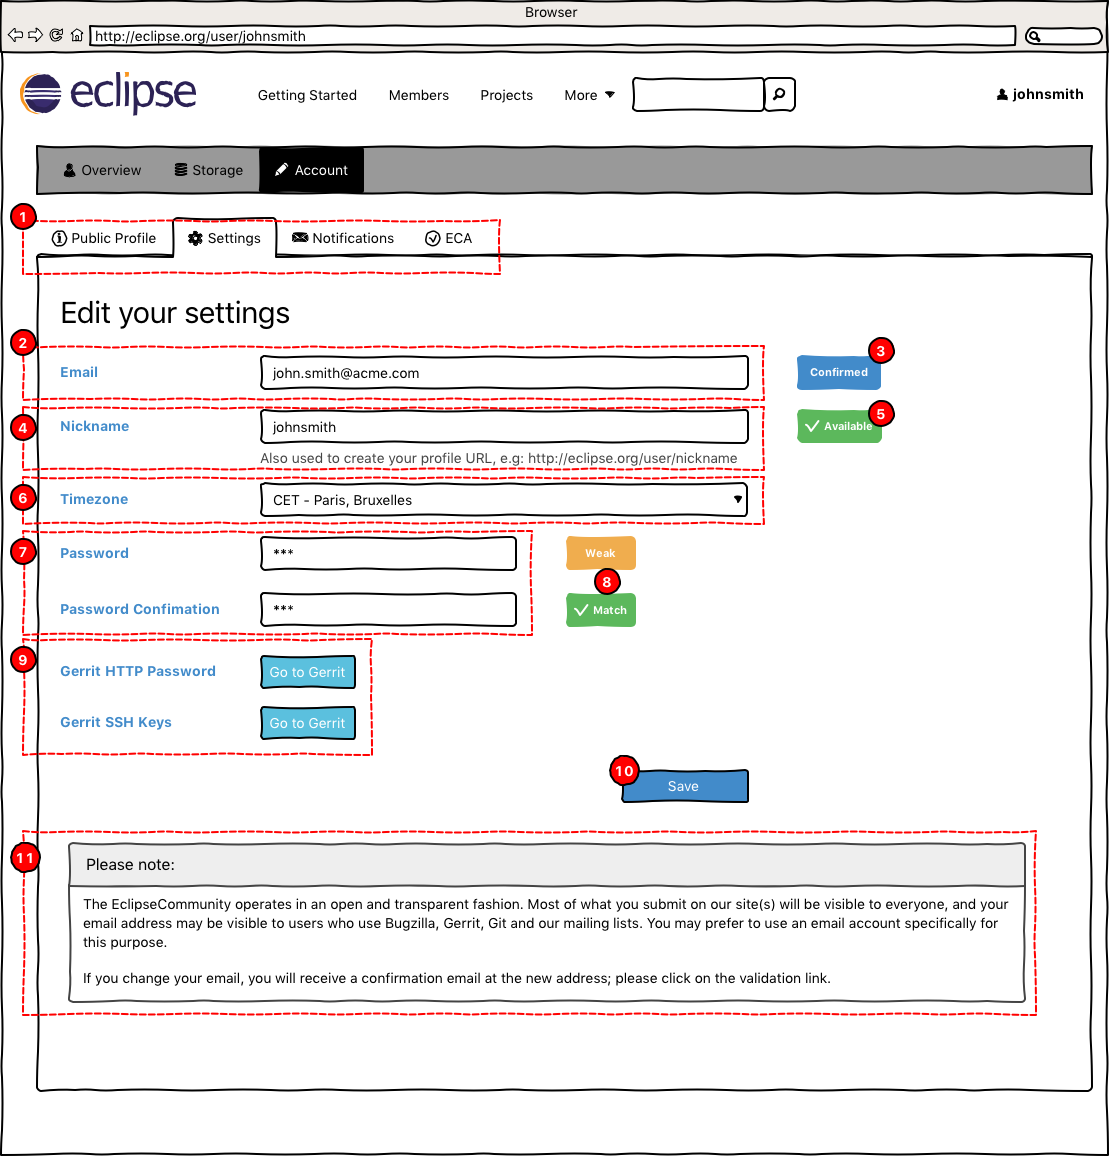
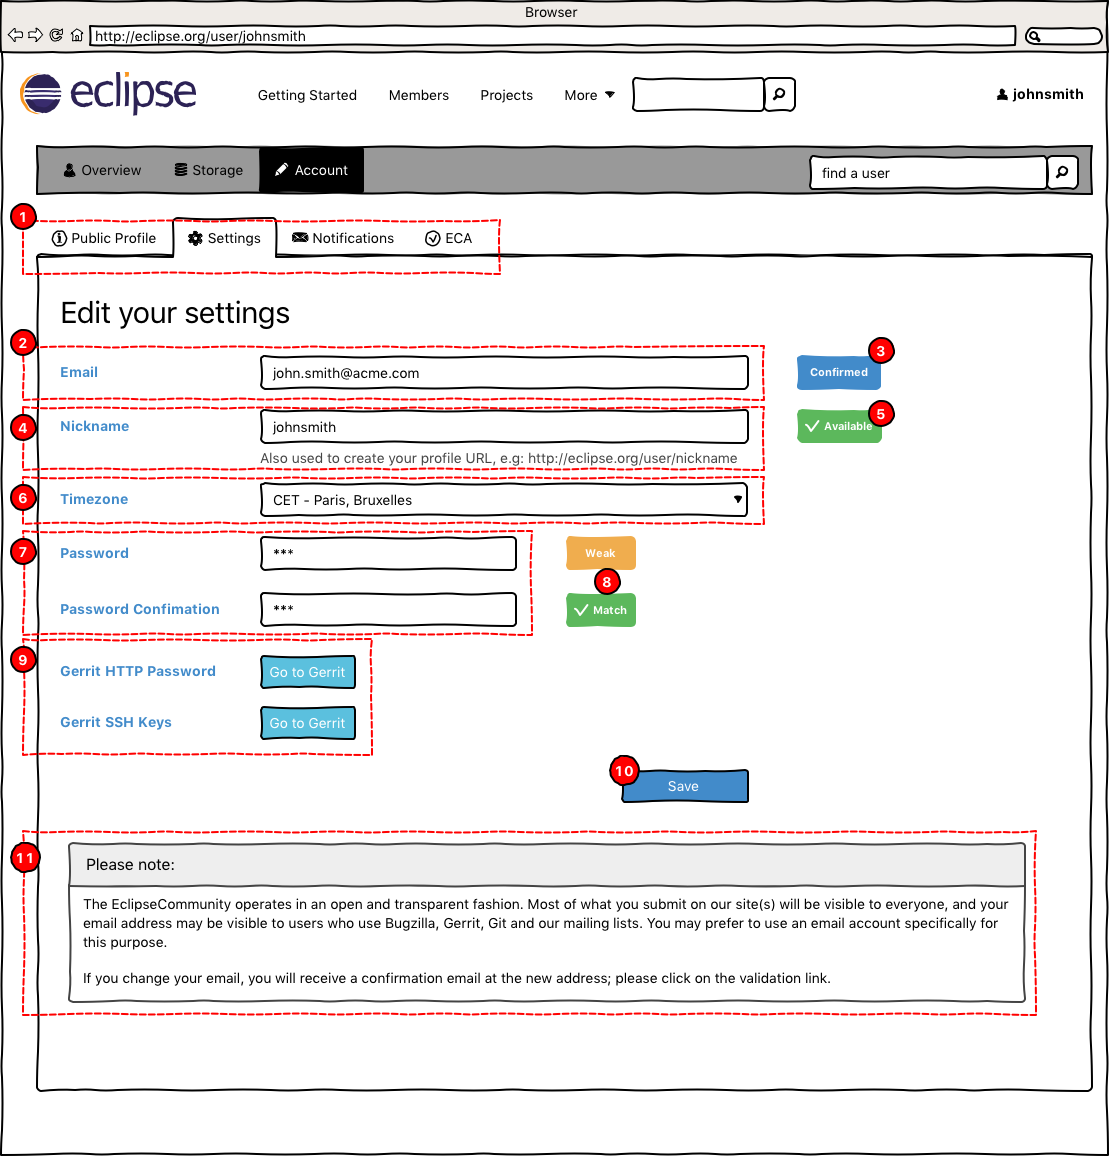
adding the search a user feature
search a user seems to be a simple feature but will require a lot of back end work.

Changed region(s): [[0.7051, 0.1246, 0.9811, 0.1869]]

diff --git a/user-profile_files/resources/story.js b/user-profile_files/resources/story.js
@@ -30,6 +30,15 @@ var story = {
       104
      ],
      "page": 9
+    },
+    {
+     "rect": [
+      809,
+      155,
+      1079,
+      190
+     ],
+     "page": 12
     }
    ],
    "title": "overview",
@@ -56,15 +65,6 @@ var story = {
       193
      ],
      "page": 3
-    },
-    {
-     "rect": [
-      1004,
-      85,
-      1088,
-      104
-     ],
-     "page": 9
     },
     {
      "rect": [
@@ -496,6 +496,112 @@ var story = {
    ],
    "title": "create-an-account",
    "height": 1124
+  },
+  {
+   "image": "search-quick.png",
+   "width": 1109,
+   "links": [
+    {
+     "rect": [
+      46,
+      147,
+      157,
+      193
+     ],
+     "page": 0
+    },
+    {
+     "rect": [
+      157,
+      147,
+      259,
+      193
+     ],
+     "page": 1
+    },
+    {
+     "rect": [
+      259,
+      147,
+      364,
+      193
+     ],
+     "page": 3
+    },
+    {
+     "rect": [
+      1046,
+      155,
+      1079,
+      190
+     ],
+     "page": 13
+    },
+    {
+     "rect": [
+      986,
+      85,
+      1093,
+      104
+     ],
+     "page": 9
+    }
+   ],
+   "title": "search-quick",
+   "height": 1484
+  },
+  {
+   "image": "search-results.png",
+   "width": 1109,
+   "links": [
+    {
+     "rect": [
+      46,
+      147,
+      157,
+      193
+     ],
+     "page": 0
+    },
+    {
+     "rect": [
+      157,
+      147,
+      259,
+      193
+     ],
+     "page": 1
+    },
+    {
+     "rect": [
+      259,
+      147,
+      364,
+      193
+     ],
+     "page": 3
+    },
+    {
+     "rect": [
+      724,
+      435,
+      769,
+      469
+     ],
+     "page": 0
+    },
+    {
+     "rect": [
+      986,
+      85,
+      1093,
+      104
+     ],
+     "page": 9
+    }
+   ],
+   "title": "search-results",
+   "height": 1196
   }
  ],
  "title": "user-profile",
